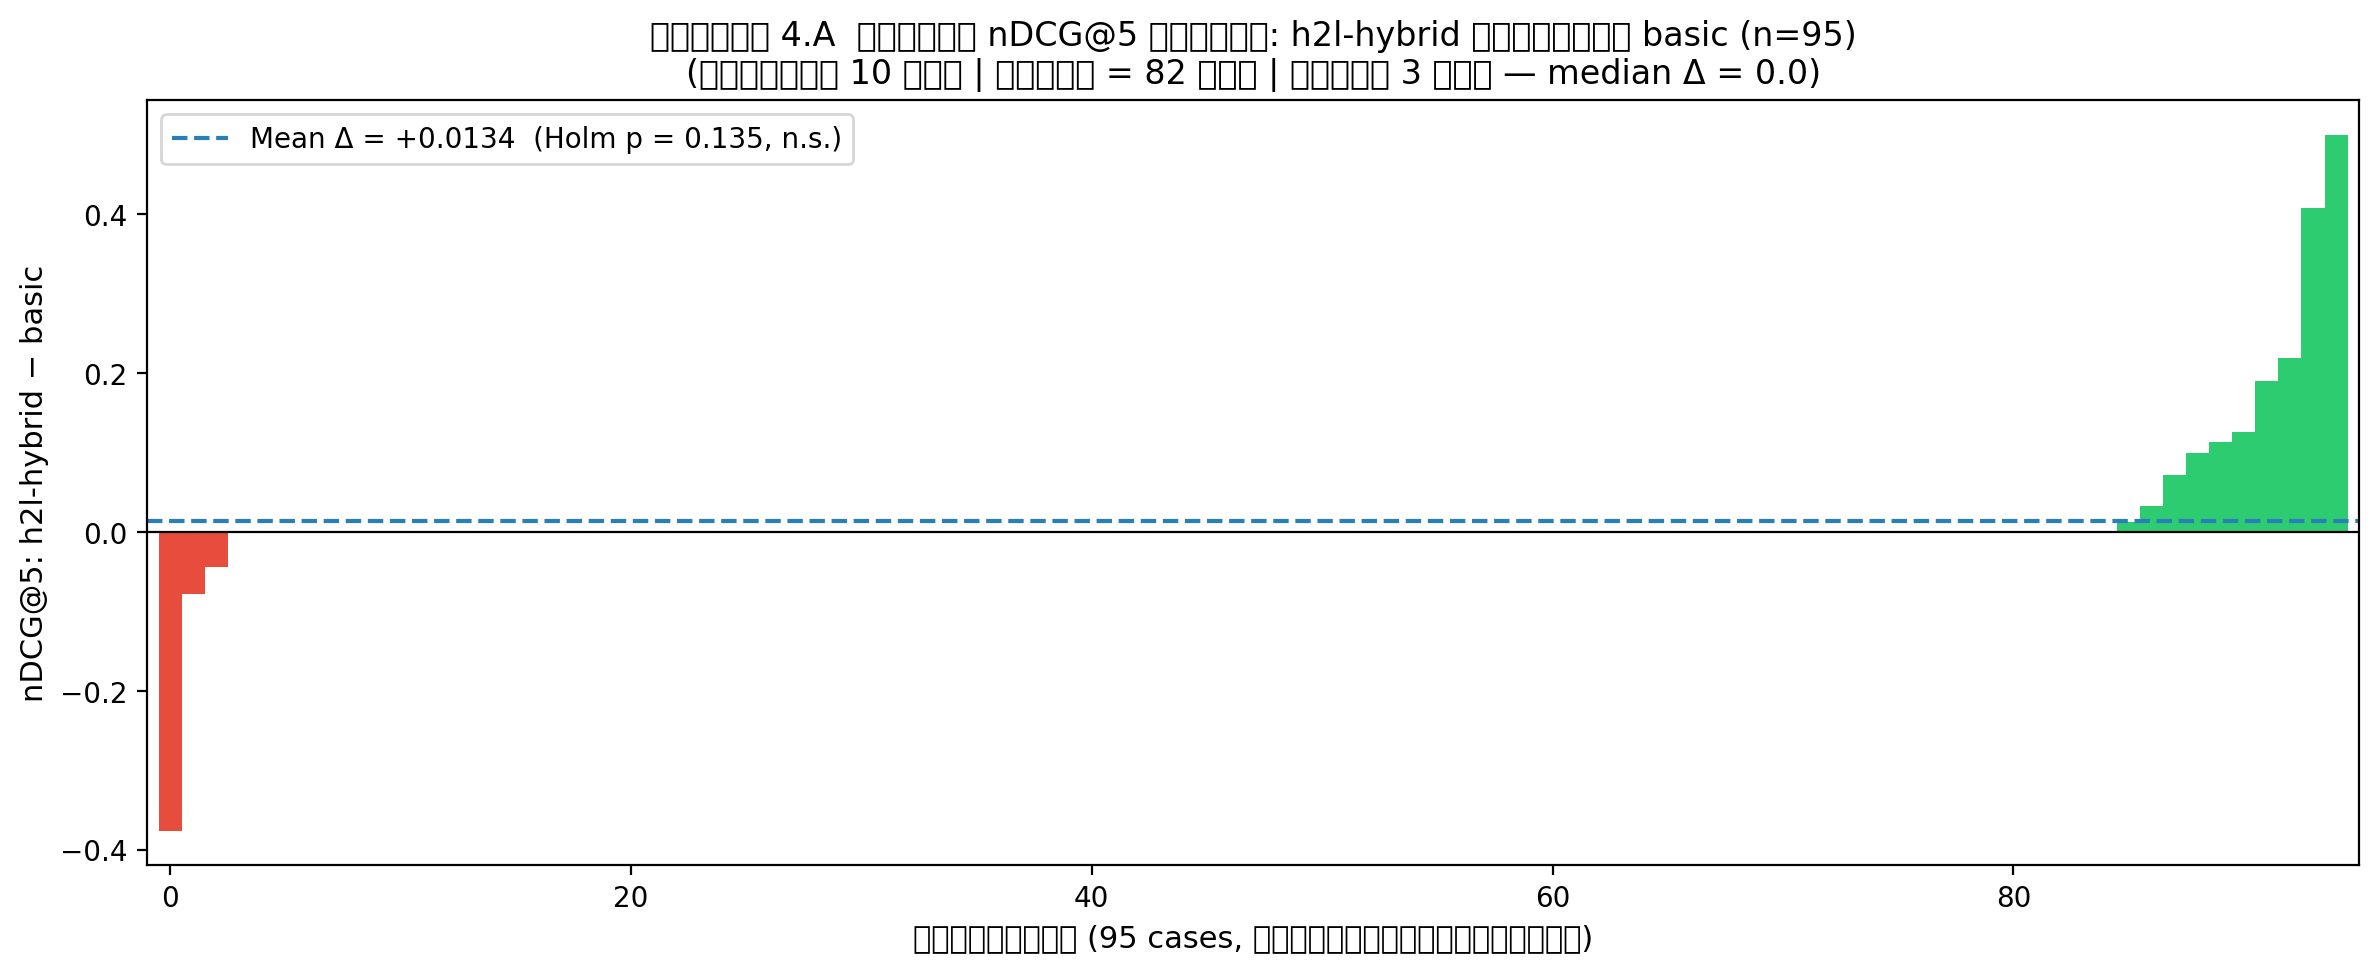
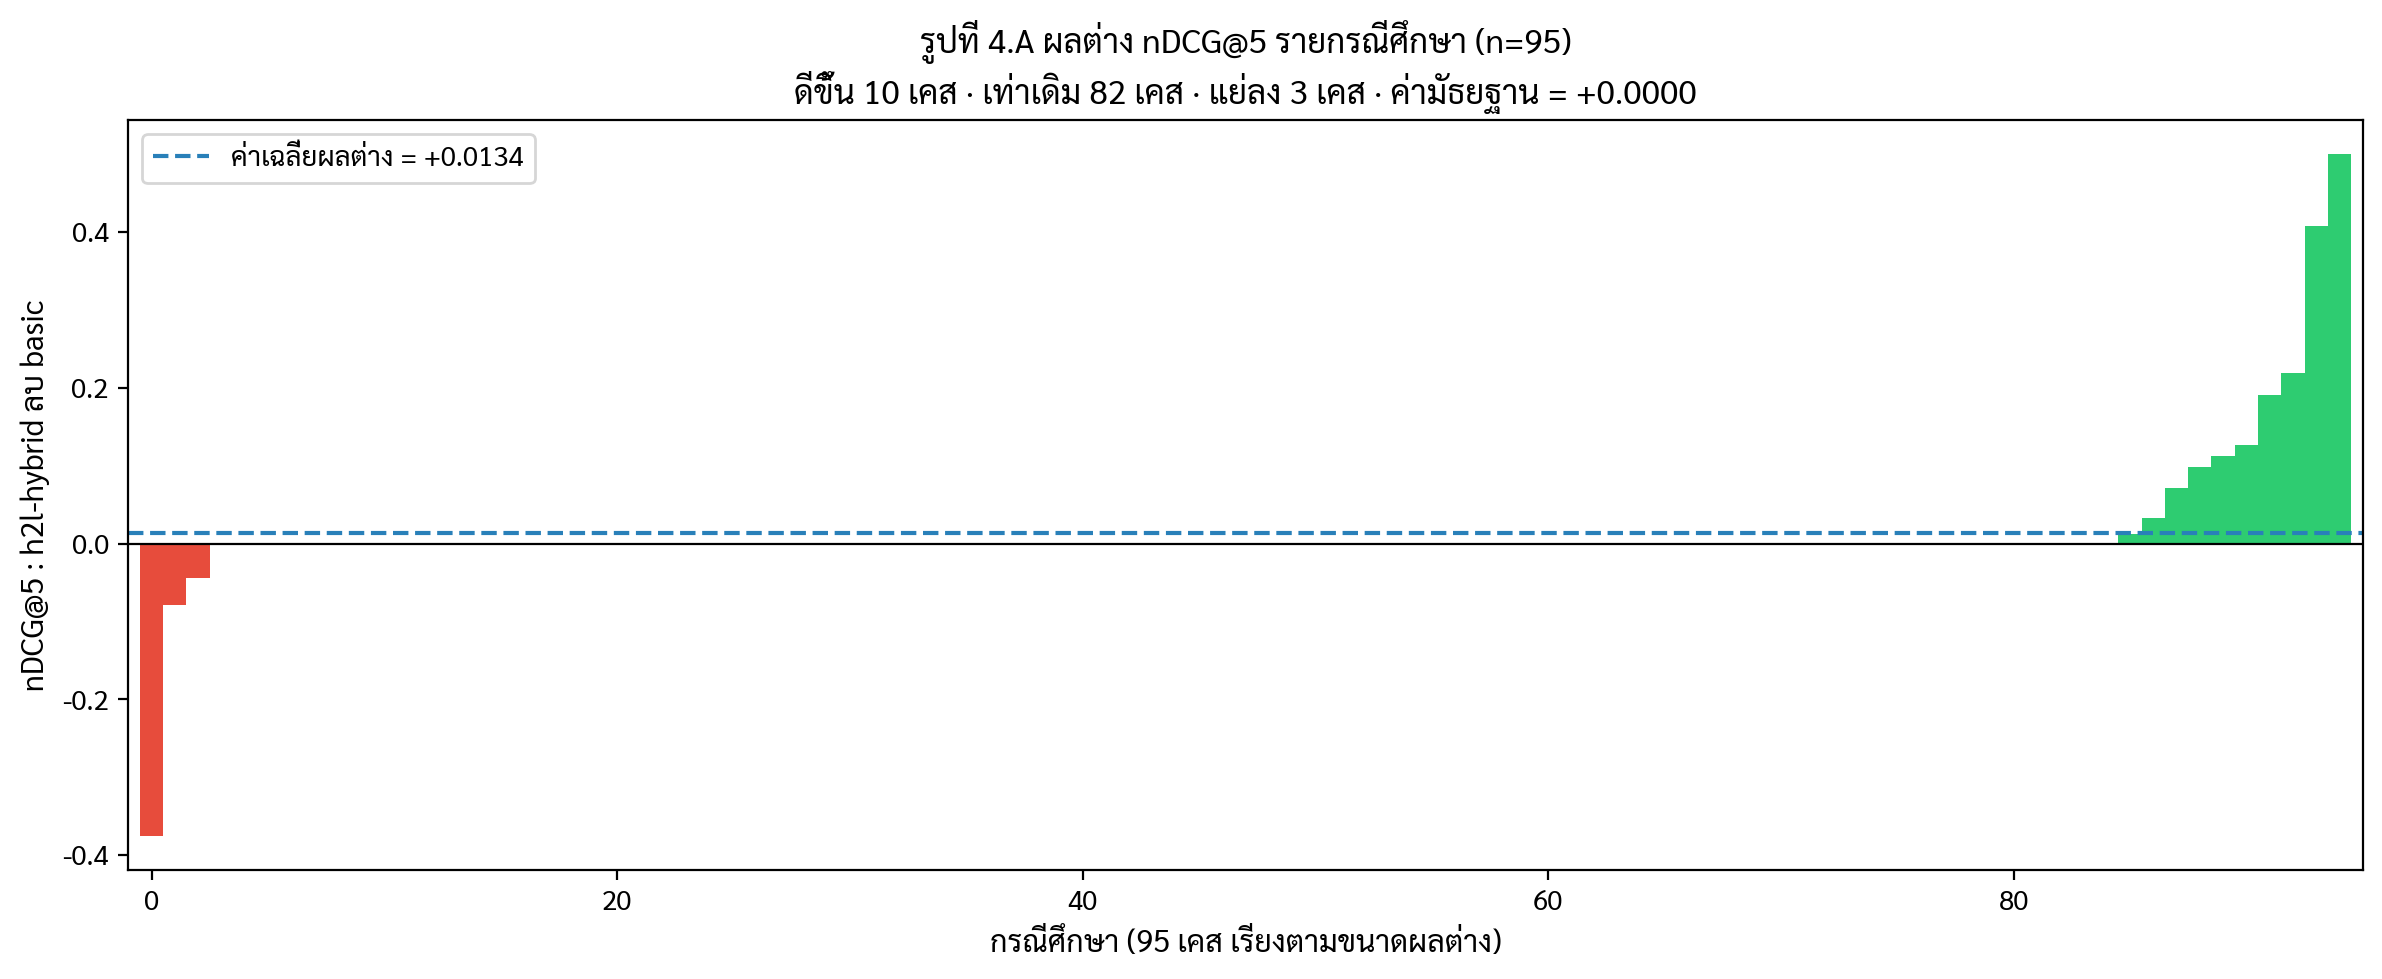
fix(figures): regenerate Chapter 4 figures with Thai font, add build script
Figures previously rendered every Thai label as a tofu box because matplotlib
fell back to DejaVu Sans. Now uses Sarabun (first available of Sarabun /
Ayuthaya / Thonburi / Krungthep / Tahoma), verified present via font_manager.

scripts/build_ch4_figures.py is new: the earlier figures were produced by an
ad-hoc heredoc that was never saved, so they were not reproducible. Every
value is read from a result file at run time; nothing is hard-coded.
Missing-glyph warnings are promoted to errors, so a clean run proves all Thai
labels rendered.

Regenerated output (verified by viewing fig 4.B):
  4.A n=95  +10/=82/-3  mean=+0.0134
  4.B pairs=7  significant=4      (matches Table 4.4)
  4.C parsed=19  joint_pass=2
  4.D variants=8  ndcg=0.2430-0.2485  delta=0.0108-0.1926

fig 4.D now derives from the 95-case RQ6 run instead of the superseded April
76-case data, so it no longer contradicts Tables 4.3/4.6.

diff --git a/scripts/build_ch4_figures.py b/scripts/build_ch4_figures.py
@@ -1,0 +1,337 @@
+"""Regenerate the Chapter 4 evidence figures with a Thai-capable font.
+
+Every number is read from a result file at run time; nothing is hard-coded.
+Any missing-glyph warning from matplotlib is promoted to an error, so a run
+that completes is proof that all Thai labels rendered.
+
+Sources
+  fig 4.A  evaluation_results/derived/retrieval_metrics_20260807_per_case.csv
+  fig 4.B  evaluation_results/derived/retrieval_significance_20260807.csv
+  fig 4.C  evaluation_results/adversarial_stress_test_20260807.md
+  fig 4.D  ablation_results/rq6_95cases_20260809/rq6_results.csv
+
+Usage:  python scripts/build_ch4_figures.py
+"""
+
+import csv
+import re
+import statistics as st
+import sys
+import warnings
+from collections import defaultdict
+from pathlib import Path
+
+import matplotlib
+
+matplotlib.use("Agg")
+import matplotlib.patches as mpatches  # noqa: E402
+import matplotlib.pyplot as plt  # noqa: E402
+import numpy as np  # noqa: E402
+from matplotlib import font_manager  # noqa: E402
+
+ROOT = Path(__file__).resolve().parent.parent
+OUT = ROOT / "output" / "figures_ch4"
+
+# Turn "Glyph N missing from font(s)" into a hard failure.
+warnings.filterwarnings("error", message=r".*missing from font.*")
+
+THAI_FONT_PREFERENCE = ("Sarabun", "Ayuthaya", "Thonburi", "Krungthep", "Tahoma")
+
+
+def pick_thai_font() -> str:
+    available = {f.name for f in font_manager.fontManager.ttflist}
+    for name in THAI_FONT_PREFERENCE:
+        if name in available:
+            return name
+    sys.exit(
+        "No Thai-capable font found. Tried: "
+        + ", ".join(THAI_FONT_PREFERENCE)
+    )
+
+
+def read_csv(path: Path) -> list[dict]:
+    if not path.is_file():
+        sys.exit(f"missing required input: {path}")
+    with path.open(encoding="utf-8") as fh:
+        return list(csv.DictReader(fh))
+
+
+# --------------------------------------------------------------------------
+# fig 4.A  per-case paired difference, h2l-hybrid minus basic, nDCG@5
+# --------------------------------------------------------------------------
+def fig_4a() -> str:
+    rows = read_csv(
+        ROOT / "evaluation_results/derived/retrieval_metrics_20260807_per_case.csv"
+    )
+    bucket = defaultdict(list)
+    for r in rows:
+        if r.get("model") != "qwen2.5:7b":
+            continue
+        if r.get("strategy") not in ("h2l-hybrid", "basic"):
+            continue
+        v = r.get("nDCG@5")
+        if v in (None, ""):
+            continue
+        bucket[(r["case_id"], r["strategy"])].append(float(v))
+
+    diffs = []
+    for cid in sorted({c for c, _ in bucket}):
+        hi = bucket.get((cid, "h2l-hybrid"))
+        lo = bucket.get((cid, "basic"))
+        if hi and lo:
+            diffs.append(st.mean(hi) - st.mean(lo))
+    diffs.sort()
+
+    pos = sum(1 for d in diffs if d > 1e-9)
+    neg = sum(1 for d in diffs if d < -1e-9)
+    zero = len(diffs) - pos - neg
+    mean_d = st.mean(diffs)
+
+    fig, ax = plt.subplots(figsize=(12, 5))
+    colors = [
+        "#e74c3c" if d < -1e-9 else "#bdc3c7" if abs(d) <= 1e-9 else "#2ecc71"
+        for d in diffs
+    ]
+    ax.bar(range(len(diffs)), diffs, color=colors, width=1.0, edgecolor="none")
+    ax.axhline(0, color="black", lw=0.8)
+    ax.axhline(
+        mean_d,
+        color="#2980b9",
+        lw=1.5,
+        ls="--",
+        label=f"ค่าเฉลี่ยผลต่าง = {mean_d:+.4f}",
+    )
+    ax.set_xlabel(f"กรณีศึกษา ({len(diffs)} เคส เรียงตามขนาดผลต่าง)", fontsize=11)
+    ax.set_ylabel("nDCG@5 : h2l-hybrid ลบ basic", fontsize=11)
+    ax.set_title(
+        f"รูปที่ 4.A ผลต่าง nDCG@5 รายกรณีศึกษา (n={len(diffs)})\n"
+        f"ดีขึ้น {pos} เคส · เท่าเดิม {zero} เคส · แย่ลง {neg} เคส · "
+        f"ค่ามัธยฐาน = {st.median(diffs):+.4f}",
+        fontsize=12,
+    )
+    ax.legend(fontsize=10)
+    ax.set_xlim(-1, len(diffs))
+    fig.tight_layout()
+    fig.savefig(OUT / "fig_4a_paired_diff.png", dpi=200, bbox_inches="tight")
+    plt.close(fig)
+    return f"4.A n={len(diffs)} +{pos}/={zero}/-{neg} mean={mean_d:+.4f}"
+
+
+# --------------------------------------------------------------------------
+# fig 4.B  forest plot of the nDCG@5 pairwise comparisons
+# --------------------------------------------------------------------------
+def fig_4b() -> str:
+    rows = [
+        r
+        for r in read_csv(
+            ROOT / "evaluation_results/derived/retrieval_significance_20260807.csv"
+        )
+        if r["metric"] == "nDCG@5"
+    ]
+    rows.sort(key=lambda r: float(r["rank_biserial"]), reverse=True)
+
+    fig, ax = plt.subplots(figsize=(10, 5))
+    n_sig = 0
+    for i, r in enumerate(rows):
+        rb = float(r["rank_biserial"])
+        hp = float(r["holm_p"])
+        md = float(r["mean_difference"])
+        nz = int(r["n_nonzero_differences"])
+        sig = hp <= 0.05
+        n_sig += sig
+        ax.barh(
+            i,
+            rb,
+            height=0.6,
+            color="#2ecc71" if sig else "#e67e22",
+            edgecolor="white",
+        )
+        star = "*" if sig else ""
+        ax.text(
+            rb + 0.02,
+            i,
+            f"ผลต่าง={md:+.4f}  Holm p={hp:.3f}{star}  เคสที่ต่าง={nz}",
+            va="center",
+            fontsize=8.5,
+        )
+    ax.axvline(0, color="black", lw=0.8)
+    ax.axvline(0.5, color="#7f8c8d", lw=1, ls=":", alpha=0.6)
+    ax.set_yticks(range(len(rows)))
+    ax.set_yticklabels([r["comparison"] for r in rows], fontsize=10)
+    ax.set_xlabel("Rank-Biserial Correlation (ขนาดอิทธิพล)", fontsize=11)
+    ax.set_title(
+        f"รูปที่ 4.B การทดสอบนัยสำคัญแบบคู่ nDCG@5 เทียบกับ h2l-hybrid\n"
+        f"ผ่านการปรับ Holm {n_sig} จาก {len(rows)} คู่",
+        fontsize=11,
+    )
+    ax.legend(
+        handles=[
+            mpatches.Patch(color="#2ecc71", label="มีนัยสำคัญ (Holm p ≤ 0.05)"),
+            mpatches.Patch(color="#e67e22", label="ไม่มีนัยสำคัญ"),
+        ],
+        fontsize=9,
+    )
+    ax.set_xlim(-0.1, 1.15)
+    fig.tight_layout()
+    fig.savefig(OUT / "fig_4b_forest_plot.png", dpi=200, bbox_inches="tight")
+    plt.close(fig)
+    return f"4.B pairs={len(rows)} significant={n_sig}"
+
+
+# --------------------------------------------------------------------------
+# fig 4.C  adversarial slice: target recall vs false-trigger suppression
+# --------------------------------------------------------------------------
+def fig_4c() -> str:
+    src = ROOT / "evaluation_results/adversarial_stress_test_20260807.md"
+    if not src.is_file():
+        sys.exit(f"missing required input: {src}")
+    text = src.read_text(encoding="utf-8")
+    pat = re.compile(
+        r"\| (ADV_\d+) \| [\w\-\.]+ \| [\w\-\.]+ \| \S+ \| (\S+) \| (\S+) \| (\S+) \|"
+    )
+    adv = [
+        {
+            "case": m.group(1),
+            "recall": float(m.group(2)),
+            "supp": float(m.group(3)),
+            "joint": float(m.group(4)),
+        }
+        for m in pat.finditer(text)
+    ]
+    if not adv:
+        sys.exit("parsed zero adversarial rows -- table format changed?")
+
+    xs = [r["recall"] for r in adv]
+    ys = [r["supp"] for r in adv]
+    n_pass = sum(1 for r in adv if r["joint"] >= 1.0)
+
+    fig, ax = plt.subplots(figsize=(9, 7))
+    colors = [
+        "#2ecc71"
+        if r["joint"] >= 1.0
+        else "#3498db"
+        if r["recall"] >= 1.0
+        else "#e74c3c"
+        for r in adv
+    ]
+    ax.scatter(
+        xs, ys, c=colors, s=130, alpha=0.85, edgecolors="white", lw=0.7, zorder=3
+    )
+    for r in adv:
+        ax.annotate(
+            r["case"].replace("ADV_", ""),
+            (r["recall"], r["supp"]),
+            textcoords="offset points",
+            xytext=(4, 3),
+            fontsize=7.5,
+            color="#444",
+        )
+    ax.axhline(1.0, color="#27ae60", lw=0.8, ls=":", alpha=0.5)
+    ax.axvline(1.0, color="#27ae60", lw=0.8, ls=":", alpha=0.5)
+    ax.set_xlabel("Target Recall (ตรวจจับรหัสเป้าหมายได้ครบ)", fontsize=11)
+    ax.set_ylabel("False-Trigger Suppression (ระงับรหัสลวงได้)", fontsize=11)
+    ax.set_title(
+        f"รูปที่ 4.C ชุดกรณีศึกษาท้าทาย: การตรวจจับเทียบกับการระงับรหัสลวง "
+        f"(n={len(adv)})\n"
+        f"เขียว = ผ่านทั้งสองเกณฑ์ ({n_pass}/{len(adv)}) · "
+        f"น้ำเงิน = ตรวจจับผ่านแต่ระงับไม่ผ่าน · แดง = ตรวจจับไม่ผ่าน",
+        fontsize=11,
+    )
+    ax.grid(True, alpha=0.3)
+    ax.set_xlim(-0.1, 1.15)
+    ax.set_ylim(-0.1, 1.15)
+    ax.text(
+        0.02,
+        0.97,
+        f"ผ่านทั้งสองเกณฑ์: {n_pass}/{len(adv)}\n"
+        f"Recall เฉลี่ย: {st.mean(xs):.3f}\n"
+        f"Suppression เฉลี่ย: {st.mean(ys):.3f}",
+        transform=ax.transAxes,
+        fontsize=9,
+        va="top",
+        bbox=dict(boxstyle="round", facecolor="white", alpha=0.85),
+    )
+    fig.tight_layout()
+    fig.savefig(OUT / "fig_4c_adversarial.png", dpi=200, bbox_inches="tight")
+    plt.close(fig)
+    return f"4.C parsed={len(adv)} joint_pass={n_pass}"
+
+
+# --------------------------------------------------------------------------
+# fig 4.D  score-vs-rank decoupling, from the 95-case RQ6 run
+# --------------------------------------------------------------------------
+def fig_4d() -> str:
+    rows = read_csv(ROOT / "ablation_results/rq6_95cases_20260809/rq6_results.csv")
+    agg = defaultdict(lambda: {"ndcg": [], "delta": []})
+    for r in rows:
+        v = r["variant"]
+        agg[v]["ndcg"].append(float(r["nDCG@5"]))
+        agg[v]["delta"].append(float(r["mean_abs_score_delta"]))
+
+    order = ["Full V6"] + sorted(v for v in agg if v != "Full V6")
+    ndcg = [st.mean(agg[v]["ndcg"]) for v in order]
+    delta = [st.mean(agg[v]["delta"]) for v in order]
+
+    labels = [v.replace("w/o ", "ไม่มี\n").replace(" ", "\n") for v in order]
+
+    fig, ax1 = plt.subplots(figsize=(12, 5.5))
+    x = np.arange(len(order))
+    w = 0.38
+    ax1.bar(x - w / 2, ndcg, w, color="#2980b9", alpha=0.85, label="nDCG@5 (แกนซ้าย)")
+    ax1.set_ylabel("nDCG@5", color="#2980b9", fontsize=11)
+    ax1.tick_params(axis="y", labelcolor="#2980b9")
+    ax1.set_ylim(0, max(ndcg) * 1.6)
+    ax1.set_xticks(x)
+    ax1.set_xticklabels(labels, fontsize=8)
+
+    ax2 = ax1.twinx()
+    ax2.bar(
+        x + w / 2,
+        delta,
+        w,
+        color="#e74c3c",
+        alpha=0.75,
+        label="ค่าเฉลี่ยการเปลี่ยนแปลงคะแนน (แกนขวา)",
+    )
+    ax2.set_ylabel("mean_abs_score_delta", color="#e74c3c", fontsize=11)
+    ax2.tick_params(axis="y", labelcolor="#e74c3c")
+    ax2.set_ylim(0, max(delta) * 1.4)
+
+    ax1.set_title(
+        f"รูปที่ 4.D การแยกกันของคะแนนและอันดับ: การถอดองค์ประกอบ H2L V6 "
+        f"(n={len(agg[order[0]]['ndcg'])} เคส)\n"
+        f"คะแนนภายในเปลี่ยน {min(delta):.4f}–{max(delta):.4f} "
+        f"แต่ nDCG@5 อยู่ในช่วง {min(ndcg):.4f}–{max(ndcg):.4f} เท่านั้น",
+        fontsize=11,
+    )
+    h1, l1 = ax1.get_legend_handles_labels()
+    h2, l2 = ax2.get_legend_handles_labels()
+    ax1.legend(h1 + h2, l1 + l2, loc="upper right", fontsize=9)
+    ax1.grid(axis="y", alpha=0.3)
+    fig.tight_layout()
+    fig.savefig(OUT / "fig_4d_decoupling.png", dpi=200, bbox_inches="tight")
+    plt.close(fig)
+    return (
+        f"4.D variants={len(order)} "
+        f"ndcg={min(ndcg):.4f}-{max(ndcg):.4f} "
+        f"delta={min(delta):.4f}-{max(delta):.4f}"
+    )
+
+
+def main() -> None:
+    font = pick_thai_font()
+    plt.rcParams["font.family"] = font
+    plt.rcParams["axes.unicode_minus"] = False
+    print(f"Thai font: {font}")
+
+    OUT.mkdir(parents=True, exist_ok=True)
+    for fn in (fig_4a, fig_4b, fig_4c, fig_4d):
+        print("  " + fn())
+
+    print(f"\nWrote to {OUT}")
+    for f in sorted(OUT.glob("*.png")):
+        print(f"  {f.name}  {f.stat().st_size // 1024} KB")
+
+
+if __name__ == "__main__":
+    main()
